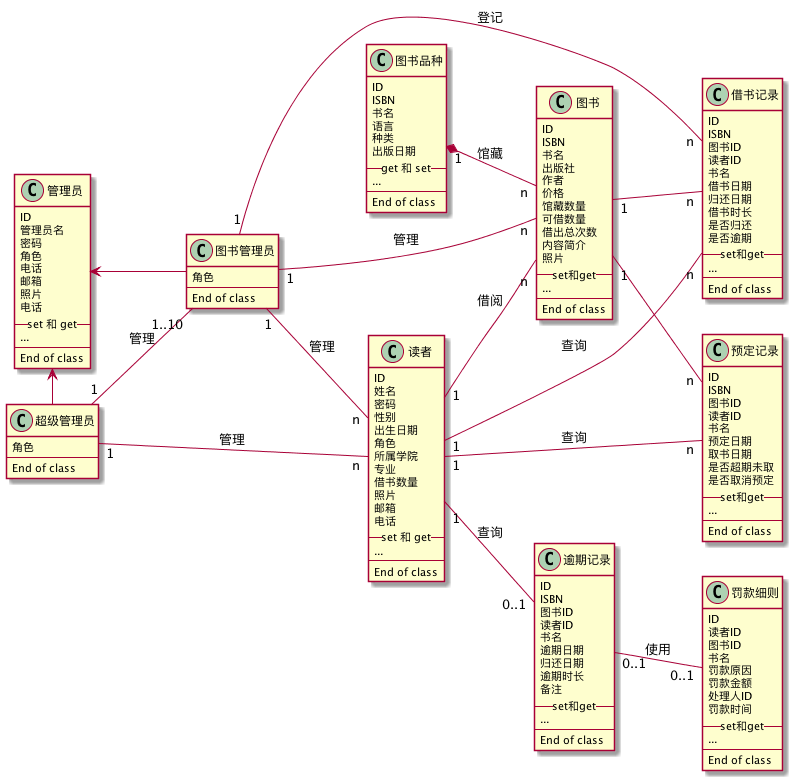
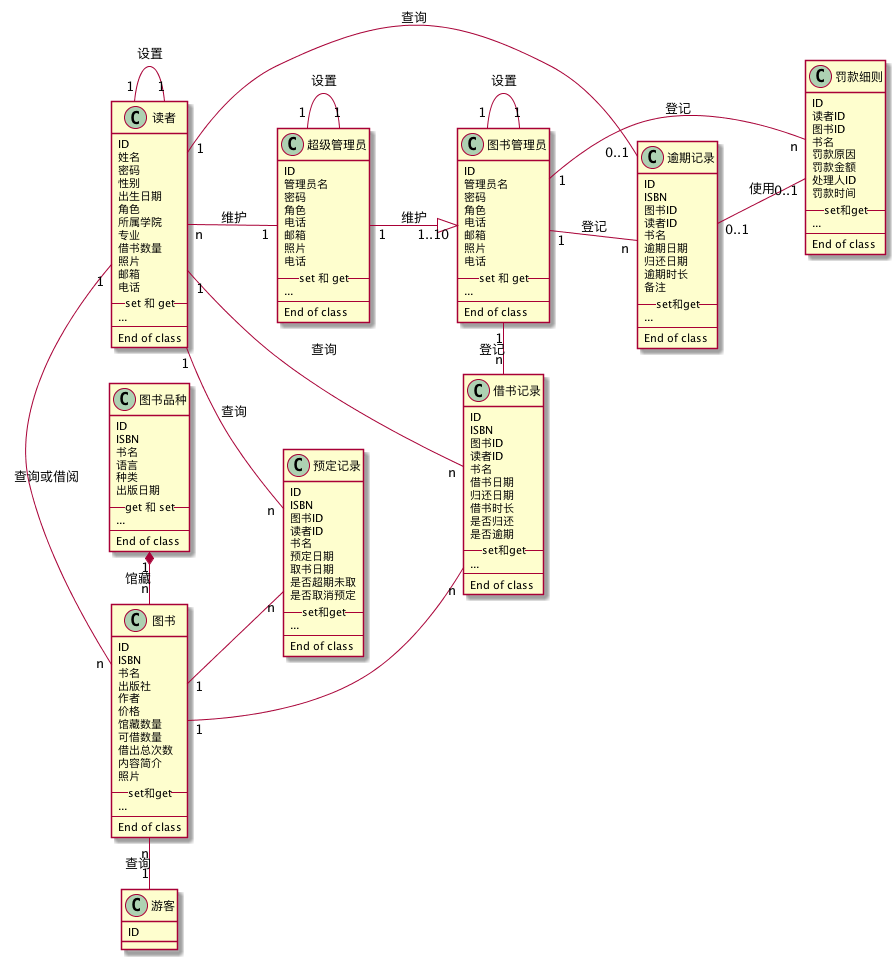
test3

diff --git a/test3/README.md b/test3/README.md
@@ -7,7 +7,11 @@
 ```
 @startuml
 left to right direction
-class 管理员 {
+class 游客{
+    ID
+}
+
+class 图书管理员 {
     ID
     管理员名
     密码
@@ -21,14 +25,17 @@ class 管理员 {
     --
     End of class
 }
-
-class 图书管理员 {
-    角色
-    --
-    End of class
-}
 class 超级管理员{
+    ID
+    管理员名
+    密码
     角色
+    电话
+    邮箱
+    照片
+    电话
+    --set 和 get--
+    ...
     --
     End of class
 }
@@ -147,32 +154,46 @@ class 罚款细则{
 }
 
 
-管理员 <- 超级管理员
-管理员 <- 图书管理员
-
-超级管理员 "1"-- "1..10"图书管理员:管理
-超级管理员 "1"-- "n"读者 :管理
-图书管理员 "1"-- "n"读者 :管理
-图书管理员 "1"-- "n"图书 :管理
-图书管理员 "1"-"n"借书记录:登记
-图书品种 "1"*-- "n"图书:馆藏
-图书 "1"--  "n"预定记录
-图书 "1"-- "n"借书记录
-读者 "1"--"n"预定记录:查询
-读者 "1"-- "n"借书记录:查询
-读者 "1"-- "0..1"逾期记录:查询
-读者 "1"-- "n"图书:借阅
-
-逾期记录 "0..1"--"0..1"罚款细则:使用
+图书管理员 "1..10"<|-up-"1" 超级管理员:维护
+超级管理员 "1"-up- "n"读者 :维护
+图书管理员 "1"-right-"n"借书记录:登记
+图书管理员 "1"-down-"n"逾期记录:登记
+图书管理员 "1"-down-"n"罚款细则:登记
+读者 "1"-right-"n"预定记录:查询
+读者 "1"-down- "n"借书记录:查询
+读者 "1"-left- "0..1"逾期记录:查询
+读者 "1"-right- "n"图书:查询或借阅
+游客 "1"-left- "n"图书:查询
+图书品种 "1"*-right- "n"图书:馆藏
+图书 "1"-down- "n"预定记录
+图书 "1"-right- "n"借书记录
+读者 "1"-- "1"读者:设置
+超级管理员 "1" -- "1"超级管理员:设置
+图书管理员 "1" -- "1"图书管理员:设置
+逾期记录 "0..1"-down-"0..1"罚款细则:使用
 @enduml
 ```
 #### 1.2类图如下
 ![class_flow](class_flow.jpg)
 #### 1.3类图说明
-
+##### 1.管理员分别有图书管理员和超级管理员，超级管理员可以维护图书管理员和读者，图书管理员维护读者。参考实验二用例关系图的三个角色，维护图书管理员信息用例，维护读者信息用例。
+##### 2.读者可以对逾期记录，借书记录，预定记录进行查询，对个人账户进行修改，并且具有预定书籍和取消预定功能，而管理员则可以实际的进行借书还书等相应操作。参考实验二借出图书，归还图书，维护书目，预定图书，取消预定，账户设置，图书查询的用例。
+##### 3.逾期记录对罚款细则进行使用，图书按图书品种进行馆藏。参考实验二登记赔偿的用例。
 ### 2.读者对象图
-#### 2.1类“读者”的对象图
-#### 2.1.1类“读者”的对象图代码如下
+#### 2.1类“游客”的对象图
+#### 2.1.1类“游客”的对象图代码如下
+```
+@startuml
+object 游客{
+    ID = 1000007765074
+
+ }
+@enduml
+```
+#### 2.1.2类“游客”的对象图如下
+![object10_flow](object10_flow.jpg)
+#### 2.2类“读者”的对象图
+#### 2.2.1类“读者”的对象图代码如下
 ```
 @startuml
 
@@ -193,10 +214,11 @@ object 读者{
 }
 @enduml
 ```
-#### 2.1.2类“图书管理员”的对象图如下
+
+#### 2.2.2类“读者”的对象图如下
 ![object1_flow](object1_flow.jpg)
-#### 2.2类“图书管理员”的对象图
-#### 2.2.1类“图书管理员”的对象图代码如下
+#### 2.3类“图书管理员”的对象图
+#### 2.3.1类“图书管理员”的对象图代码如下
 ```
 @startuml
 object 图书管理员{
@@ -210,10 +232,10 @@ object 图书管理员{
 }
 @enduml
 ```
-#### 2.2.2类“图书管理员”的对象图如下
+#### 2.3.2类“图书管理员”的对象图如下
 ![object2_flow](object2_flow.jpg)
-#### 2.3类“超级管理员”的对象图
-#### 2.3.1类“超级管理员”的对象图代码如下
+#### 2.4类“超级管理员”的对象图
+#### 2.4.1类“超级管理员”的对象图代码如下
 ```
 @startuml
 object 超级管理员{
@@ -226,10 +248,10 @@ object 超级管理员{
 }
 @enduml
 ```
-#### 2.3.2类“超级管理员”的对象图如下
+#### 2.4.2类“超级管理员”的对象图如下
 ![object3_flow](object3_flow.jpg)
-#### 2.4类“图书”的对象图
-#### 2.4.1类“图书”的对象图代码如下
+#### 2.5类“图书”的对象图
+#### 2.5.1类“图书”的对象图代码如下
 ```
 @startuml
 
@@ -248,10 +270,10 @@ object 图书{
 
 @enduml
 ```
-#### 2.4.2类“图书”的对象图如下
+#### 2.5.2类“图书”的对象图如下
 ![object4_flow](object4_flow.jpg)
-#### 2.5类“图书”的对象图
-#### 2.5.1类“图书”的对象图代码如下
+#### 2.6类“图书”的对象图
+#### 2.6.1类“图书”的对象图代码如下
 ```
 @startuml
 
@@ -267,10 +289,10 @@ object 图书品种{
 
 @enduml
 ```
-#### 2.5.2类“图书”的对象图如下
+#### 2.6.2类“图书”的对象图如下
 ![object5_flow](object5_flow.jpg)
-#### 2.6类“借书记录”的对象图
-#### 2.6.1类“借书记录”的对象图代码如下
+#### 2.7类“借书记录”的对象图
+#### 2.7.1类“借书记录”的对象图代码如下
 ```
 @startuml
 
@@ -289,10 +311,10 @@ object 借书记录{
 
 @enduml
 ```
-#### 2.6.2类“借书记录”的对象图如下
+#### 2.7.2类“借书记录”的对象图如下
 ![object6_flow](object6_flow.jpg)
-#### 2.7类“预定记录”的对象图
-#### 2.7.1类“预定记录”的对象图代码如下
+#### 2.8类“预定记录”的对象图
+#### 2.8.1类“预定记录”的对象图代码如下
 ```
 @startuml
 
@@ -311,10 +333,10 @@ object 预定记录{
 
 @enduml
 ```
-#### 2.7.2类“预定记录”的对象图如下
+#### 2.8.2类“预定记录”的对象图如下
 ![object7_flow](object7_flow.jpg)
-#### 2.8类“逾期记录”的对象图
-#### 2.8.1类“逾期记录”的对象图代码如下
+#### 2.9类“逾期记录”的对象图
+#### 2.9.1类“逾期记录”的对象图代码如下
 ```
 @startuml
 
@@ -334,10 +356,10 @@ object 逾期记录{
 
 @enduml
 ```
-#### 2.8.2类“逾期记录”的对象图如下
+#### 2.9.2类“逾期记录”的对象图如下
 ![object8_flow](object8_flow.jpg)
-#### 2.9类“逾期记录”的对象图
-#### 2.9.1类“逾期记录”的对象图代码如下
+#### 2.10类“逾期记录”的对象图
+#### 2.10.1类“逾期记录”的对象图代码如下
 ```
 @startuml
 
@@ -357,7 +379,7 @@ object 罚款细则{
 
 @enduml
 ```
-#### 2.9.1类“逾期记录”的对象图如下
+#### 2.10.2类“逾期记录”的对象图如下
 ![object9_flow](object9_flow.jpg)
 
 

diff --git a/test3/class.md b/test3/class.md
@@ -1,6 +1,10 @@
 @startuml
 left to right direction
-class 管理员 {
+class 游客{
+    ID
+}
+
+class 图书管理员 {
     ID
     管理员名
     密码
@@ -14,14 +18,17 @@ class 管理员 {
     --
     End of class
 }
-
-class 图书管理员 {
-    角色
-    --
-    End of class
-}
 class 超级管理员{
+    ID
+    管理员名
+    密码
     角色
+    电话
+    邮箱
+    照片
+    电话
+    --set 和 get--
+    ...
     --
     End of class
 }
@@ -140,21 +147,21 @@ class 罚款细则{
 }
 
 
-管理员 <- 超级管理员
-管理员 <- 图书管理员
-
-超级管理员 "1"-- "1..10"图书管理员:管理
-超级管理员 "1"-- "n"读者 :管理
-图书管理员 "1"-- "n"读者 :管理
-图书管理员 "1"-- "n"图书 :管理
-图书管理员 "1"-"n"借书记录:登记
-图书品种 "1"*-- "n"图书:馆藏
-图书 "1"--  "n"预定记录
-图书 "1"-- "n"借书记录
-读者 "1"--"n"预定记录:查询
-读者 "1"-- "n"借书记录:查询
-读者 "1"-- "0..1"逾期记录:查询
-读者 "1"-- "n"图书:借阅
-
-逾期记录 "0..1"--"0..1"罚款细则:使用
+图书管理员 "1..10"<|-up-"1" 超级管理员:维护
+超级管理员 "1"-up- "n"读者 :维护
+图书管理员 "1"-right-"n"借书记录:登记
+图书管理员 "1"-down-"n"逾期记录:登记
+图书管理员 "1"-down-"n"罚款细则:登记
+读者 "1"-right-"n"预定记录:查询
+读者 "1"-down- "n"借书记录:查询
+读者 "1"-left- "0..1"逾期记录:查询
+读者 "1"-right- "n"图书:查询或借阅
+游客 "1"-left- "n"图书:查询
+图书品种 "1"*-right- "n"图书:馆藏
+图书 "1"-down- "n"预定记录
+图书 "1"-right- "n"借书记录
+读者 "1"-- "1"读者:设置
+超级管理员 "1" -- "1"超级管理员:设置
+图书管理员 "1" -- "1"图书管理员:设置
+逾期记录 "0..1"-down-"0..1"罚款细则:使用
 @enduml

diff --git a/test3/object10.md b/test3/object10.md
@@ -1,0 +1,8 @@
+@startuml
+
+object 游客{
+    ID = 1000007765074
+
+ }
+
+@enduml
